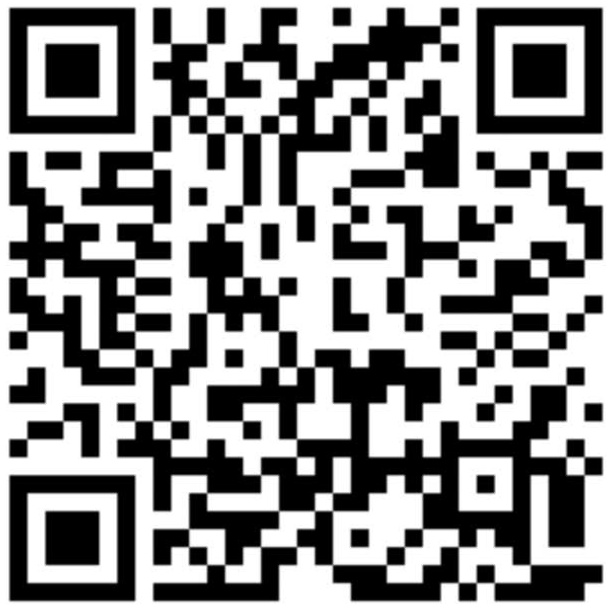
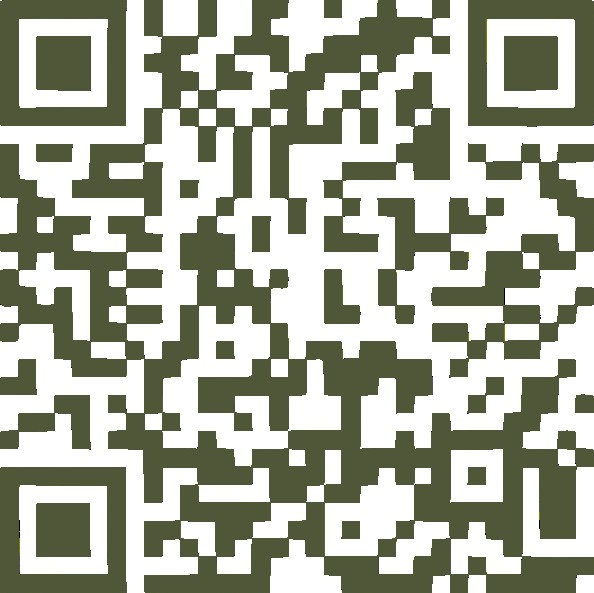
Update

diff --git a/thiepmoi.html b/thiepmoi.html
@@ -44,13 +44,15 @@
                 <div class="box-contop">
                     <img src="anh/logo.png" alt="" class="img-top">
                     <div class="date">29.11</div>
-                    <label for="" class="lb-top3">Hoàng Nam & Thúy Hiền</label>
-                    <div class="box-dot">
+                    <label for="" class="lb-top3">Phạm Hoàng Nam
+                        - Kim Thuý Hiền</label>
+                    <!-- <div class="box-dot">
                         <label for="" class="dotwelcome"><i class="fa-solid fa-circle"></i></label>
                         <label for="" class="lb-top">Always and forever</label>
                         <label for="" class="dotwelcome"><i class="fa-solid fa-circle"></i></label>
-                    </div>
-                    <label for="" class="lb-top2">WELCOME TO OUR WEDDING</label>
+                    </div> -->
+                    <label for="" class="lb-top2">You are invited to <br>
+                        the wedding celebration of</label>
                 </div>
             </div>
 
@@ -99,7 +101,7 @@
                     <label for="" class="lb-inv">Hoàng Nam & Thúy Hiền</label>
 
                     <div class="img-inv"></div>
-                    <!-- <img src="anh/couple/couple_01.jpg" data-aos="flip-left" alt="" class="img-inv" /> -->
+                    <!-- <img src="https://pub-d341ea7ec201435598469d75d8c4a056.r2.dev/hien-nam/couple/couple_01.jpg" data-aos="flip-left" alt="" class="img-inv" /> -->
 
                     <div class="time-add">
                         <!-- <p class="nhatrai">Nhà Gái</p> -->
@@ -205,8 +207,10 @@
                 <img src="anh/TOA_0722.webp" alt="" class="img2">
             </div> -->
             <div class="box-images">
-                <img src="anh/couple/couple_02.webp" alt="" class="img1" />
-                <img src="anh/couple/couple_03.webp" alt="" class="img2" />
+                <img src="https://pub-d341ea7ec201435598469d75d8c4a056.r2.dev/hien-nam/couple/couple_02.webp" alt=""
+                    class="img1" />
+                <img src="https://pub-d341ea7ec201435598469d75d8c4a056.r2.dev/hien-nam/couple/couple_03.webp" alt=""
+                    class="img2" />
             </div>
 
             <div class="logo">
@@ -219,40 +223,42 @@
             <div class="container-slide">
                 <div class="slider">
                     <div class="slide">
-                        <img src="anh/album/1.webp" alt="" style="object-fit: cover; object-position: 35% 50%;" />
+                        <img src="https://pub-d341ea7ec201435598469d75d8c4a056.r2.dev/hien-nam/album/1.jpg" alt=""
+                            style="object-fit: cover; object-position: 35% 50%;" />
                     </div>
                     <div class="slide">
-                        <img src="anh/album/2.webp" alt="" />
+                        <img src="https://pub-d341ea7ec201435598469d75d8c4a056.r2.dev/hien-nam/album/2.webp" alt="" />
                     </div>
                     <div class="slide">
-                        <img src="anh/album/3.webp" alt="" />
-                    </div>
-
-                    <div class="slide">
-                        <img src="anh/album/4.webp" alt="" />
-                    </div>
-                    <div class="slide">
-                        <img src="anh/album/5.webp" alt="" />
-                    </div>
-                    <div class="slide">
-                        <img src="anh/album/6.webp" alt="" />
+                        <img src="https://pub-d341ea7ec201435598469d75d8c4a056.r2.dev/hien-nam/album/3.webp" alt="" />
                     </div>
 
                     <div class="slide">
-                        <img src="anh/album/7.webp" alt="" />
+                        <img src="https://pub-d341ea7ec201435598469d75d8c4a056.r2.dev/hien-nam/album/4.webp" alt="" />
                     </div>
                     <div class="slide">
-                        <img src="anh/album/8.webp" alt="" />
+                        <img src="https://pub-d341ea7ec201435598469d75d8c4a056.r2.dev/hien-nam/album/5.webp" alt="" />
                     </div>
                     <div class="slide">
-                        <img src="anh/album/9.webp" alt="" style="object-fit: cover; object-position: 44% 50%;" />
+                        <img src="https://pub-d341ea7ec201435598469d75d8c4a056.r2.dev/hien-nam/album/6.webp" alt="" />
                     </div>
 
                     <div class="slide">
-                        <img src="anh/album/10.webp" alt="" />
+                        <img src="https://pub-d341ea7ec201435598469d75d8c4a056.r2.dev/hien-nam/album/7.webp" alt="" />
                     </div>
                     <div class="slide">
-                        <img src="anh/album/11.webp" alt="" />
+                        <img src="https://pub-d341ea7ec201435598469d75d8c4a056.r2.dev/hien-nam/album/8.webp" alt="" />
+                    </div>
+                    <div class="slide">
+                        <img src="https://pub-d341ea7ec201435598469d75d8c4a056.r2.dev/hien-nam/album/9.webp" alt=""
+                            style="object-fit: cover; object-position: 44% 50%;" />
+                    </div>
+
+                    <div class="slide">
+                        <img src="https://pub-d341ea7ec201435598469d75d8c4a056.r2.dev/hien-nam/album/10.webp" alt="" />
+                    </div>
+                    <div class="slide">
+                        <img src="https://pub-d341ea7ec201435598469d75d8c4a056.r2.dev/hien-nam/album/11.jpg" alt="" />
                     </div>
 
                     <button class="btn btn-next">
@@ -364,7 +370,7 @@
                 <label for="" class="lb-end-top">QUÉT MÃ QR CODE DƯỚI ĐÂY <br>
                     NẾU BẠN MUỐN GỬI QUÀ MỪNG CƯỚI DÀNH TẶNG CHO <br>
                     <strong>NAM</strong> VÀ <strong>HIỀN</strong> NHÉ!</label>
-                <img src="anh/qrcode.jpg" alt="" class="img-qr">
+                <img src="anh/qrcode.png" alt="" class="img-qr">
                 <div for="" class="lb-thank">Thank you!</div>
                 <div for="" class="lb-end-bt">Hẹn gặp lại bạn tại lễ cưới của chúng mình nha!</div>
                 <div for="" class="yen">YÊN STUDIO | YÊN BỀ GIA THẤT</div>
@@ -443,7 +449,7 @@
         };
     </script>
     <script>
-        const scripConfirmtURL = "?sheet=confirm";
+        const scripConfirmtURL = "https://script.google.com/macros/s/AKfycbzOrWiudG9yIAZtROiTlo9kjNWY9JeovzohbytvBKfKVYuAGbe2utXdlRrBPxKy0Ww/exec?sheet=confirm";
         const form = document.forms["nhi-phuong"];
 
         form.addEventListener("submit", (e) => {
@@ -455,8 +461,8 @@
             let data = Object.fromEntries(formData.entries());
             const confirm = data.CONFIRM;
             const name = data.NAME;
-            const number_guest = data.GUEST;
-            const dietary = data.dietary;
+            const guest_number = data.GUEST;
+            // const dietary = data.dietary;
             const wish = data.WISH;
 
             // Gửi dữ liệu form đi
@@ -465,8 +471,8 @@
                 body: new URLSearchParams({
                     name,
                     confirm,
-                    number_guest,
-                    dietary,
+                    guest_number,
+                    // dietary,
                     wish,
                 }),
             })

diff --git a/css/style.css b/css/style.css
@@ -93,8 +93,16 @@
   font-style: normal;
 }
 
+@font-face {
+  font-family: '1FTVBlushingRose';
+  src: url('../fonts/1FTVBlushingRose.woff2') format('woff2');
+  font-weight: normal;
+  font-style: normal;
+}
+
 :root {
   --font-lora: "Lora";
+  --font-1FTVBlushingRose: "1FTVBlushingRose";
   --font-uvn: "UVN Ke Chuyen3";
   --font-uvn1: "UVN Ke Chuyen1";
   --font-uvn2: "UVN Ke Chuyen2";
@@ -308,7 +316,7 @@
   width: 100%;
   aspect-ratio: 200 / 300;
   /* background-image:linear-gradient(rgba(0, 0, 0, 0.112), rgba(0, 0, 0, 0.334)), url("../anh/TOA_9910.webp"); */
-  background-image: linear-gradient(to top, rgba(0, 0, 0, 0.36), rgba(0, 0, 0, 0), rgba(0, 0, 0, 0)), url("../anh/couple/hero.webp");
+  background-image: linear-gradient(to top, rgba(0, 0, 0, 0.36), rgba(0, 0, 0, 0), rgba(0, 0, 0, 0)), url("https://pub-d341ea7ec201435598469d75d8c4a056.r2.dev/hien-nam/couple/hero.webp");
   background-position: 100% 100%;
   background-size: 100%;
   background-repeat: no-repeat;
@@ -321,9 +329,10 @@
 }
 
 .box-contop .date {
-  font-family: var(--font-uvn2);
+  font-family: var(--font-1FTVBlushingRose);
   font-size: 62px;
   margin-bottom: 4%;
+  letter-spacing: 5px;
 }
 
 .img-top {
@@ -356,19 +365,21 @@
 
 .lb-top2 {
   display: block;
-  font-family: "Lora Regular", sans-serif;
-  font-size: 13.6px;
+  font-family: var(--font-1FTVBlushingRose);
+  font-size: 14px;
   font-weight: 300;
   letter-spacing: 1px;
+  text-transform: uppercase;
   margin-bottom: 15%;
 }
 
 .lb-top3 {
   display: block;
-  font-family: var(--font-pinyon);
-  font-size: 44px;
+  font-family: var(--font-1FTVBlushingRose);
+  font-size: 24px;
   font-weight: 300;
   padding-bottom: 5%;
+  text-transform: uppercase;
 }
 
 .info,
@@ -567,7 +578,7 @@
 .img-inv {
   width: 76%;
   aspect-ratio: 2 / 3;
-  background: url('../anh/couple/hero_01.webp') no-repeat 50% 50% / 140%;
+  background: url('https://pub-d341ea7ec201435598469d75d8c4a056.r2.dev/hien-nam/couple/hero_01.webp') no-repeat 50% 50% / 140%;
   margin: 10% 0;
 }
 
@@ -1136,8 +1147,7 @@ textarea::placeholder {
 }
 
 .end {
-  /* background-image:linear-gradient(to bottom, rgba(0, 0, 0, 0),rgba(0, 0, 0, 0), rgba(0, 0, 0, 0.193)),url('https://pub-d341ea7ec201435598469d75d8c4a056.r2.dev/nhi-phuong/DAT_5280_end.webp'); */
-  background-image: url('../anh/couple/end.jpg');
+  background-image: linear-gradient(to bottom, rgba(255, 255, 255, 0.659), rgba(255, 255, 255, 0.534)), url('https://pub-d341ea7ec201435598469d75d8c4a056.r2.dev/hien-nam/couple/end.jpg');
   background-position: center;
   background-size: cover;
   background-repeat: no-repeat;
@@ -1148,7 +1158,7 @@ textarea::placeholder {
   align-items: center;
   justify-content: flex-start;
   text-align: center;
-  color: white;
+  color: var(--primary-color);
   position: relative;
   padding-top: 8%;
 }
@@ -1163,7 +1173,7 @@ textarea::placeholder {
 .lb-thank {
   font-family: var(--font-pinyon);
   font-size: 48px;
-  color: white;
+  color: var(--primary-color);
   text-align: center;
   margin-top: 7%;
 }
@@ -1510,7 +1520,8 @@ div:where(.swal2-container) img:where(.swal2-image) {
   }
 
   .lb-top2 {
-    font-size: calc((13.6 / 500) * 100vw);
+    font-size: calc((14 / 500) * 100vw);
+    letter-spacing: calc((1 / 500) * 100vw);
   }
 
   .family__info__block__label,
@@ -1582,11 +1593,12 @@ div:where(.swal2-container) img:where(.swal2-image) {
   }
 
   .lb-top3 {
-    font-size: calc((44 / 500) * 100vw);
+    font-size: calc((24 / 500) * 100vw);
   }
 
   .box-contop .date {
     font-size: calc((62 / 500) * 100vw);
+    letter-spacing: calc((5 / 500) * 100vw);
   }
 
   .lb-add {
